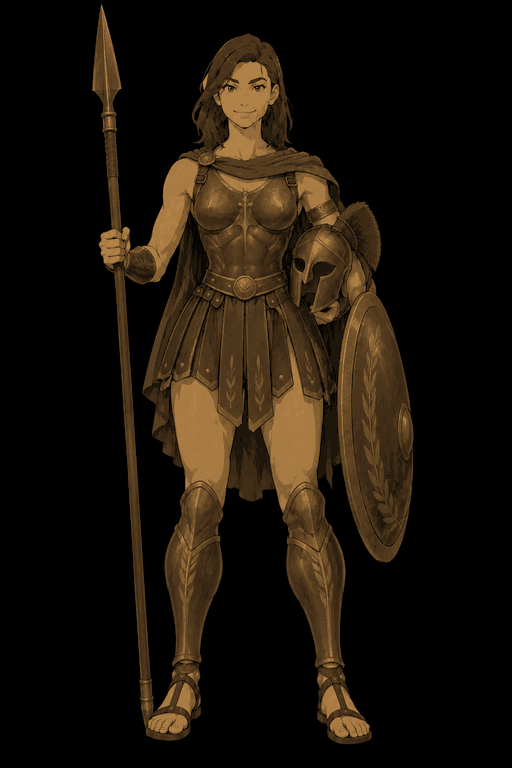
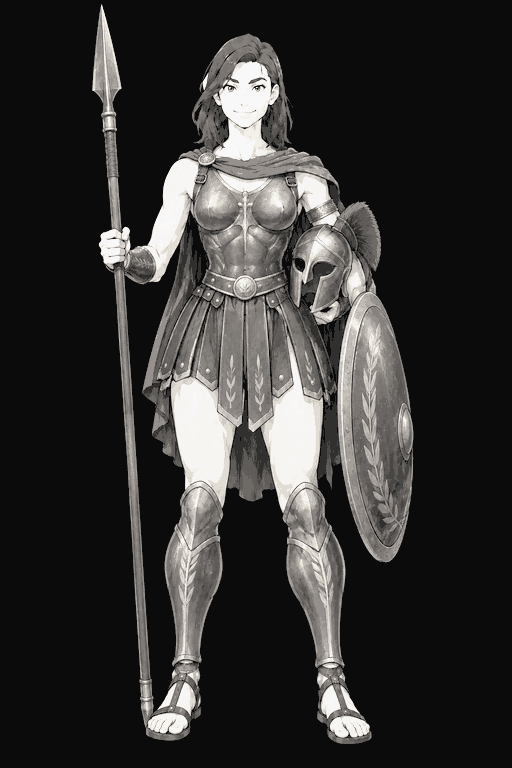
Character art in marble: the brand's black, cream and white
The twelve character stages were mapped onto ivory and gold, from the old
dark-and-gold look. The app is black, cream and white with one orange
accent now, so the gold figure was the only thing on the home, character
and level-up screens outside the palette.

Each figure is re-made from the original full-colour art: levelled on its
own (so the armoured stages are not muddy), then its light and shade mapped
through ink, warm stone grey, cream and white. They read as marble statues.
The background is the app's ink rather than pure black, so the black box
behind each figure is gone. The set is 649 KB, down from 793 KB.

A stopgap: the clothing is still ancient Greek. A modern set is next.

Changed region(s): [[0.1562, 0.0, 0.8125, 0.9688]]

diff --git a/index.html b/index.html
@@ -46,8 +46,8 @@
   <link rel="preconnect" href="https://fonts.googleapis.com">
   <link rel="preconnect" href="https://fonts.gstatic.com" crossorigin>
   <link href="https://fonts.googleapis.com/css2?family=Inter:opsz,wght@14..32,100..900&display=swap" rel="stylesheet">
-  <link rel="stylesheet" href="tokens.css?v=213">
-  <link rel="stylesheet" href="style.css?v=213">
+  <link rel="stylesheet" href="tokens.css?v=214">
+  <link rel="stylesheet" href="style.css?v=214">
 </head>
 <body>
 <div id="grain" aria-hidden="true"></div>
@@ -110,25 +110,25 @@
     </button>
   </nav>
 </div>
-<script src="data.js?v=213"></script>
-<script src="app.js?v=213"></script>
-<script src="connect.js?v=213"></script>
-<script src="today.js?v=213"></script>
-<script src="premium.js?v=213"></script>
-<script src="workout.js?v=213"></script>
-<script src="diet.js?v=213"></script>
+<script src="data.js?v=214"></script>
+<script src="app.js?v=214"></script>
+<script src="connect.js?v=214"></script>
+<script src="today.js?v=214"></script>
+<script src="premium.js?v=214"></script>
+<script src="workout.js?v=214"></script>
+<script src="diet.js?v=214"></script>
 <script>
 // Stub coach functions until lazy-loaded
 if(typeof openCoach==='undefined'){window.openCoach=function(){};window.closeCoach=function(){};window.sendCoachMsg=function(){};window.clearCoachHistory=function(){}}
 // Lazy-load coach + social after first paint for faster startup
 (window.requestIdleCallback||function(cb){setTimeout(cb,800)})(function(){
-  var s1=document.createElement('script');s1.src='coach.js?v=213';document.body.appendChild(s1);
-  var s2=document.createElement('script');s2.src='social.js?v=213';document.body.appendChild(s2);
-  var s3=document.createElement('script');s3.src='bodymap.js?v=213';document.body.appendChild(s3);
+  var s1=document.createElement('script');s1.src='coach.js?v=214';document.body.appendChild(s1);
+  var s2=document.createElement('script');s2.src='social.js?v=214';document.body.appendChild(s2);
+  var s3=document.createElement('script');s3.src='bodymap.js?v=214';document.body.appendChild(s3);
 });
 </script>
-<script src="integrations.js?v=213"></script>
-<script src="profile.js?v=213"></script>
+<script src="integrations.js?v=214"></script>
+<script src="profile.js?v=214"></script>
 <script>
   // No service worker inside the native (Capacitor) app — assets are bundled locally
   if ('serviceWorker' in navigator && !window.Capacitor) {

diff --git a/app.js b/app.js
@@ -1141,7 +1141,7 @@ function icon(name, size = 18) {
 
 // ── CHARACTER AVATARS ───────────────────────────────────────────────────────
 // Illustrated stage art (PNG). Stage thresholds match LEVEL_TITLES exactly.
-const _AVATAR_V = '3'; // bump to bust caches when art changes
+const _AVATAR_V = '4'; // bump to bust caches when art changes
 function avatarStage(lvl) {
   return lvl >= 20 ? 6 : lvl >= 12 ? 5 : lvl >= 8 ? 4 : lvl >= 5 ? 3 : lvl >= 3 ? 2 : 1;
 }

diff --git a/service-worker.js b/service-worker.js
@@ -1,4 +1,4 @@
-const CACHE = 'arete-v184';
+const CACHE = 'arete-v185';
 const ASSETS = [
   '/',
   '/index.html',
